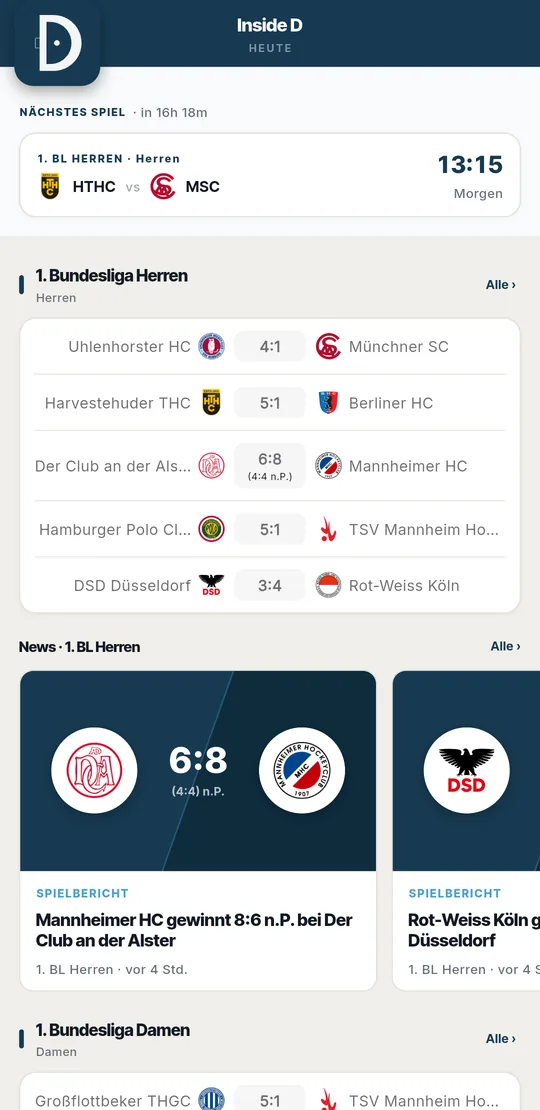
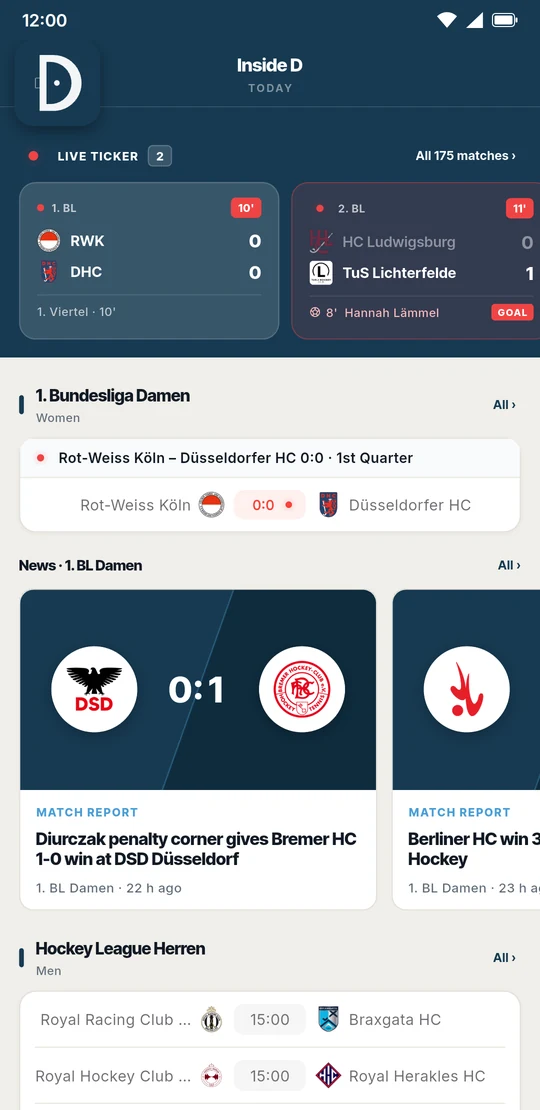
International-first copy, no counts or league names, fresh English screenshots (from hockeyapp 6372f12)

diff --git a/index.html b/index.html
@@ -4,11 +4,11 @@
 <meta charset="utf-8">
 <meta name="viewport" content="width=device-width, initial-scale=1">
 <title>Inside D · Field hockey, all in one app</title>
-<meta name="description" content="Inside D brings field hockey into one fan app: 43 competitions across 6 countries plus international tournaments, with live scores, match centers, standings, brackets, match reports and push notifications.">
+<meta name="description" content="Inside D: live scores, results, tables and match reports from international field hockey and the national leagues behind it. Free, no account, no ads.">
 <meta name="theme-color" content="#173A52">
 <meta property="og:title" content="Inside D · Field hockey, all in one app">
-<meta property="og:description" content="Live scores, match centers, tables, brackets and match reports, from the Bundesliga to the World Cup.">
-<meta property="og:image" content="https://inside-d.com/assets/lobby.webp">
+<meta property="og:description" content="International field hockey in one free app: live scores, results, tables, brackets and match reports.">
+<meta property="og:image" content="https://inside-d.com/assets/ehl-match.webp">
 <link rel="icon" type="image/png" href="assets/logo.png">
 <link rel="preconnect" href="https://fonts.googleapis.com">
 <link rel="preconnect" href="https://fonts.gstatic.com" crossorigin>
@@ -134,7 +134,7 @@
   .stats .row { display: grid; grid-template-columns: repeat(4, 1fr); }
   .stats .cell { padding: 30px 12px; text-align: center; }
   .stats .cell + .cell { border-left: 1px solid var(--border); }
-  .stats .n { font-size: 2.1rem; font-weight: 800; letter-spacing: -.03em; color: var(--text); line-height: 1.1; }
+  .stats .n { font-size: 1.15rem; font-weight: 800; letter-spacing: -.015em; color: var(--text); line-height: 1.25; }
   .stats .l { font-size: .8rem; text-transform: uppercase; letter-spacing: .1em; color: var(--muted); margin-top: 6px; font-weight: 500; }
 
   /* ---------- Sections ---------- */
@@ -182,10 +182,10 @@
 
   /* ---------- Gallery ---------- */
   .gallery {
-    display: flex; justify-content: safe center; gap: 40px; overflow-x: auto; scroll-snap-type: x mandatory;
+    display: flex; justify-content: safe center; gap: 28px; overflow-x: auto; scroll-snap-type: x mandatory;
     padding: 48px 24px 40px; margin: 0 -24px; scrollbar-width: thin;
   }
-  .gallery figure { flex: 0 0 260px; scroll-snap-align: center; }
+  .gallery figure { flex: 0 0 240px; scroll-snap-align: center; }
   .gallery figcaption { text-align: center; font-size: .9rem; color: var(--muted); margin-top: 16px; font-weight: 500; }
 
   /* ---------- Coverage ---------- */
@@ -262,7 +262,7 @@
     .hero-phones .p1 { width: 196px; }
     .hero-phones .p2, .hero-phones .p3 { width: 150px; }
     .beta { padding: 40px 22px; border-radius: 22px; }
-    .stats .n { font-size: 1.8rem; }
+    .stats .n { font-size: 1rem; }
     .eyebrow { font-size: .68rem; letter-spacing: .05em; }
     .gallery { margin: 0 -16px; padding-inline: 16px; }
   }
@@ -306,16 +306,16 @@
     <div>
       <span class="eyebrow"><span class="dot" aria-hidden="true"></span>Coming soon to Google Play</span>
       <h1>Field hockey.<br><em>All of it.</em> One app.</h1>
-      <p class="lead">From the Bundesliga to the World Cup: live scores, match centers, tables, brackets and match reports for 43 competitions, men's and women's, in one place.</p>
+      <p class="lead">Live scores, results, tables and match reports from European club hockey and the big championships, plus the national leagues the players come from. Men's and women's, in one free app.</p>
       <div class="cta">
         <a class="btn btn-primary" href="#features">See what's inside</a>
       </div>
       <p class="fine">No account. No ads. German &amp; English.</p>
     </div>
     <div class="hero-phones">
-      <div class="phone p2"><div class="screen"><img src="assets/match.webp" alt="Match center: quarter scores, penalty shootout and goal timeline with a penalty corner" width="540" height="1110"></div></div>
-      <div class="phone p3"><div class="screen"><img src="assets/standings.webp" alt="1. Bundesliga table with playoff and playdown zone stripes" width="540" height="1110"></div></div>
-      <div class="phone p1"><div class="screen"><img src="assets/lobby.webp" alt="Home screen: next match countdown, latest results and match report cards" width="540" height="1110" fetchpriority="high"></div></div>
+      <div class="phone p2"><div class="screen"><img src="assets/bracket.webp" alt="World championship knockout bracket with semi-finals, final and placings" width="540" height="1110"></div></div>
+      <div class="phone p3"><div class="screen"><img src="assets/standings.webp" alt="League table with playoff and playdown zone stripes" width="540" height="1110"></div></div>
+      <div class="phone p1"><div class="screen"><img src="assets/lobby.webp" alt="Home screen: live ticker with two running games, live match and match report cards" width="540" height="1110" fetchpriority="high"></div></div>
     </div>
   </div>
 </header>
@@ -323,10 +323,10 @@
 <div class="stats">
   <div class="wrap">
     <div class="row">
-      <div class="cell"><div class="n">43</div><div class="l">Competitions</div></div>
-      <div class="cell"><div class="n">6</div><div class="l">Countries</div></div>
-      <div class="cell"><div class="n">199</div><div class="l">Clubs</div></div>
-      <div class="cell"><div class="n">367</div><div class="l">Teams</div></div>
+      <div class="cell"><div class="n">European club hockey</div><div class="l">Every round, men &amp; women</div></div>
+      <div class="cell"><div class="n">Championships</div><div class="l">World &amp; European</div></div>
+      <div class="cell"><div class="n">Hockey5s</div><div class="l">The fast format too</div></div>
+      <div class="cell"><div class="n">National leagues</div><div class="l">Where the players come from</div></div>
     </div>
   </div>
 </div>
@@ -341,53 +341,25 @@
     </div>
 
     <div class="feature">
-      <div class="feature-media"><div class="phone"><div class="screen"><img src="assets/lobby.webp" alt="Home screen with next match, results of the weekend and news cards" width="540" height="1110" loading="lazy"></div></div></div>
-      <div>
-        <div class="label">Today</div>
-        <h3>Your weekend on one screen.</h3>
-        <p>Favourite your teams and leagues. The home screen leads with what matters right now: your next match counting down, live games ticking along, fresh results and the hottest stories of the day.</p>
-        <ul class="ticks">
-          <li>Live ticker with pulsing live markers</li>
-          <li>Teams and leagues you follow come first</li>
-          <li>"Today in focus" strip with the day's top stories</li>
-        </ul>
-      </div>
-    </div>
-
-    <div class="feature">
-      <div class="feature-media"><div class="phone"><div class="screen"><img src="assets/match.webp" alt="Match center with quarter-by-quarter scores, shootout attempts, green cards and goals" width="540" height="1110" loading="lazy"></div></div></div>
+      <div class="feature-media"><div class="phone"><div class="screen"><img src="assets/match.webp" alt="Match center with quarter scores, goals, penalty corners, cards and match stats" width="540" height="1110" loading="lazy"></div></div></div>
       <div>
         <div class="label">Match center</div>
         <h3>Every goal, every corner, every card.</h3>
         <p>Quarter-by-quarter scores, a timeline of goals, penalty corners and cards, full shootout detail, line-ups, head-to-head and the table as it stood on the day.</p>
         <ul class="ticks">
+          <li>Live scores with pulsing live markers</li>
           <li>Penalty shootouts attempt by attempt</li>
           <li>Line-ups with captains and keepers</li>
-          <li>Head-to-head record between the clubs</li>
         </ul>
       </div>
     </div>
 
     <div class="feature">
-      <div class="feature-media"><div class="phone"><div class="screen"><img src="assets/standings.webp" alt="League table with movement arrows and coloured zone stripes" width="540" height="1110" loading="lazy"></div></div></div>
-      <div>
-        <div class="label">Tables</div>
-        <h3>Tables that move with the game.</h3>
-        <p>Standings update as results come in, with arrows for every place gained or lost. Each league gets its own zones, so you see at a glance who is heading for the playoffs and who is fighting relegation.</p>
-        <div class="zones" aria-label="Zone colours">
-          <span><i style="background:var(--success)"></i>Playoffs &amp; promotion</span>
-          <span><i style="background:var(--amber)"></i>Playdowns</span>
-          <span><i style="background:var(--error)"></i>Relegation</span>
-        </div>
-      </div>
-    </div>
-
-    <div class="feature">
-      <div class="feature-media"><div class="phone"><div class="screen"><img src="assets/bracket.webp" alt="FIH Hockey World Cup knockout bracket with semi-finals, final and classification matches" width="540" height="1110" loading="lazy"></div></div></div>
+      <div class="feature-media"><div class="phone"><div class="screen"><img src="assets/bracket.webp" alt="World championship knockout bracket with semi-finals, final and classification matches" width="540" height="1110" loading="lazy"></div></div></div>
       <div>
         <div class="label">Tournaments</div>
         <h3>From pool stage to final.</h3>
-        <p>Knockout brackets for the German championship finals, the Euro Hockey League and the FIH Hockey World Cup. Two-stage pool formats with carried-over results, best-of-three series and every classification match.</p>
+        <p>European club competitions and world and European championships, from the first pool game to the final. Two-stage pool formats with carried-over results and every classification match.</p>
         <ul class="ticks">
           <li>Brackets fill in as the rounds are played</li>
           <li>Pools, second-round groups and placings</li>
@@ -396,15 +368,42 @@
     </div>
 
     <div class="feature">
-      <div class="feature-media"><div class="phone"><div class="screen"><img src="assets/article.webp" alt="Match report article: Mannheimer HC wins 8:6 after a penalty shootout" width="540" height="1110" loading="lazy"></div></div></div>
+      <div class="feature-media"><div class="phone"><div class="screen"><img src="assets/ehl-pools.webp" alt="Pool tables with the qualifying place marked" width="540" height="1110" loading="lazy"></div></div></div>
+      <div>
+        <div class="label">Tables</div>
+        <h3>Tables that move with the game.</h3>
+        <p>Standings update as results come in. Every competition gets its own zones, so you see at a glance who goes through, who is heading for the playoffs and who is fighting relegation.</p>
+        <div class="zones" aria-label="Zone colours">
+          <span><i style="background:var(--success)"></i>Through &amp; promotion</span>
+          <span><i style="background:var(--amber)"></i>Playdowns</span>
+          <span><i style="background:var(--error)"></i>Relegation</span>
+        </div>
+      </div>
+    </div>
+
+    <div class="feature">
+      <div class="feature-media"><div class="phone"><div class="screen"><img src="assets/article.webp" alt="Match report article with the result and the story of the game" width="540" height="1110" loading="lazy"></div></div></div>
       <div>
         <div class="label">News</div>
         <h3>The story behind the score.</h3>
-        <p>Match reports, weekend roundups and previews, generated from the match data within hours of the final whistle. Not just for the top flight: the lower leagues get their stories too.</p>
+        <p>Match reports, roundups and previews, written from the match data within hours of the final whistle. For the big tournaments, and for the leagues further down too.</p>
         <ul class="ticks">
           <li>Reports with scorers, comebacks and table context</li>
-          <li>Roundups and previews for every level</li>
-          <li>League and federation news in one feed</li>
+          <li>Tournament previews and round-by-round roundups</li>
+          <li>News next to the results it belongs to</li>
+        </ul>
+      </div>
+    </div>
+
+    <div class="feature">
+      <div class="feature-media"><div class="phone"><div class="screen"><img src="assets/lobby.webp" alt="Home screen with next match, latest results and news cards" width="540" height="1110" loading="lazy"></div></div></div>
+      <div>
+        <div class="label">Today</div>
+        <h3>Your hockey on one screen.</h3>
+        <p>Follow your teams and competitions. The home screen leads with what matters right now: your next match counting down, live games ticking along, fresh results and the stories of the day.</p>
+        <ul class="ticks">
+          <li>Teams and competitions you follow come first</li>
+          <li>Push alerts for match start, goals and full time</li>
         </ul>
       </div>
     </div>
@@ -451,8 +450,10 @@
     </div>
 
     <div class="gallery" role="list" aria-label="More screens">
-      <figure role="listitem"><div class="phone"><div class="screen"><img src="assets/matchday.webp" alt="Matchday screen for the 1. Bundesliga weekend, Friday to Sunday" width="540" height="1110" loading="lazy"></div></div><figcaption>Matchday</figcaption></figure>
-      <figure role="listitem"><div class="phone"><div class="screen"><img src="assets/team.webp" alt="Team page of Hamburger Polo Club with form guide and table excerpt" width="540" height="1110" loading="lazy"></div></div><figcaption>Team page</figcaption></figure>
+      <figure role="listitem"><div class="phone"><div class="screen"><img src="assets/matchday.webp" alt="Matchday screen: a tournament weekend day by day, results per pool" width="540" height="1110" loading="lazy"></div></div><figcaption>Matchday</figcaption></figure>
+      <figure role="listitem"><div class="phone"><div class="screen"><img src="assets/ehl-match.webp" alt="Match center of a European club tournament game" width="540" height="1110" loading="lazy"></div></div><figcaption>Tournament match</figcaption></figure>
+      <figure role="listitem"><div class="phone"><div class="screen"><img src="assets/overview.webp" alt="League overview: the weekend's results and a weekly roundup" width="540" height="1110" loading="lazy"></div></div><figcaption>League overview</figcaption></figure>
+      <figure role="listitem"><div class="phone"><div class="screen"><img src="assets/team.webp" alt="Team page with form guide, last and next match and table excerpt" width="540" height="1110" loading="lazy"></div></div><figcaption>Team page</figcaption></figure>
     </div>
   </div>
 </section>
@@ -461,53 +462,48 @@
   <div class="wrap">
     <div class="section-head">
       <div class="label">Coverage</div>
-      <h2 id="cov-h">From the top flight to the Verbandsliga.</h2>
-      <p>43 competitions: 36 national leagues in six countries plus seven international tournaments. Men's and women's, senior level.</p>
+      <h2 id="cov-h">International first. And the leagues behind it.</h2>
+      <p>The big international competitions, followed from the first pool game to the final, next to the national leagues where the players play every weekend. Senior hockey, men's and women's.</p>
     </div>
     <div class="countries">
-      <article class="country">
-        <header><h4>Germany</h4><span class="count">25</span></header>
-        <ul>
-          <li>1. Bundesliga, men &amp; women</li>
-          <li>2. Bundesliga North &amp; South</li>
-          <li>WHV pyramid: Regionalliga to 2. Verbandsliga (19 groups)</li>
-          <li>Championship finals bracket</li>
-        </ul>
-      </article>
-      <article class="country">
-        <header><h4>Netherlands</h4><span class="count">2</span></header>
-        <ul><li>Hoofdklasse, men &amp; women</li></ul>
-      </article>
-      <article class="country">
-        <header><h4>Belgium</h4><span class="count">2</span></header>
-        <ul><li>Hockey League, men &amp; women</li></ul>
-      </article>
-      <article class="country">
-        <header><h4>England</h4><span class="count">2</span></header>
-        <ul><li>Premier Division, men &amp; women</li></ul>
-      </article>
-      <article class="country">
-        <header><h4>Denmark</h4><span class="count">3</span></header>
-        <ul><li>Herreliga &amp; Dameliga</li><li>1. Division</li></ul>
-      </article>
-      <article class="country">
-        <header><h4>Sweden</h4><span class="count">2</span></header>
-        <ul><li>Hockey11s, men &amp; women</li></ul>
-      </article>
       <article class="country wide">
         <div>
-          <header><h4>International</h4><span class="count">7</span></header>
+          <header><h4>International</h4></header>
           <p>Clubs and national teams.</p>
         </div>
         <ul>
-          <li>FIH Hockey World Cup, men &amp; women</li>
-          <li>Euro Hockey League, men &amp; women</li>
-          <li>EuroHockey 5s Championship, men &amp; women</li>
-          <li>EuroHockey Club Challenge II, men</li>
+          <li>European club competitions, men &amp; women</li>
+          <li>World and European championships</li>
+          <li>Hockey5s championships</li>
+          <li>Pools, brackets and placings</li>
         </ul>
       </article>
+      <article class="country">
+        <header><h4>Germany</h4></header>
+        <ul><li>Top flight to regional leagues</li></ul>
+      </article>
+      <article class="country">
+        <header><h4>Netherlands</h4></header>
+        <ul><li>Senior pyramid, men &amp; women</li></ul>
+      </article>
+      <article class="country">
+        <header><h4>Belgium</h4></header>
+        <ul><li>Top flight, men &amp; women</li></ul>
+      </article>
+      <article class="country">
+        <header><h4>England</h4></header>
+        <ul><li>Top flight, men &amp; women</li></ul>
+      </article>
+      <article class="country">
+        <header><h4>Denmark</h4></header>
+        <ul><li>Top flights and second tier</li></ul>
+      </article>
+      <article class="country">
+        <header><h4>Sweden</h4></header>
+        <ul><li>11-a-side and Hockey5s</li></ul>
+      </article>
     </div>
-    <p class="note">The coverage map keeps growing.</p>
+    <p class="note">The coverage map keeps growing. Inside D is an independent project, not affiliated with or endorsed by any federation or league. Federations can <a href="mailto:felix@inside-d.com">reach us</a> any time to correct or remove anything.</p>
   </div>
 </section>
 
